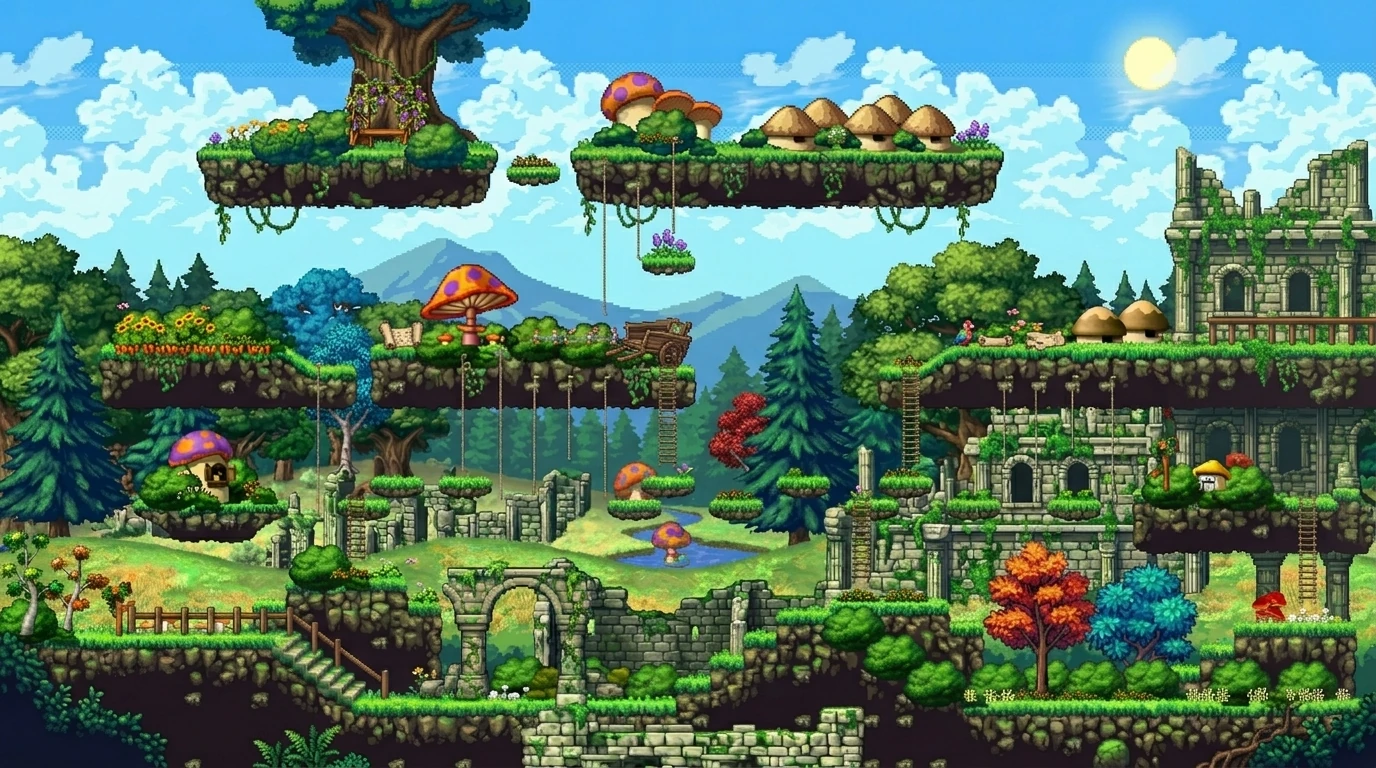
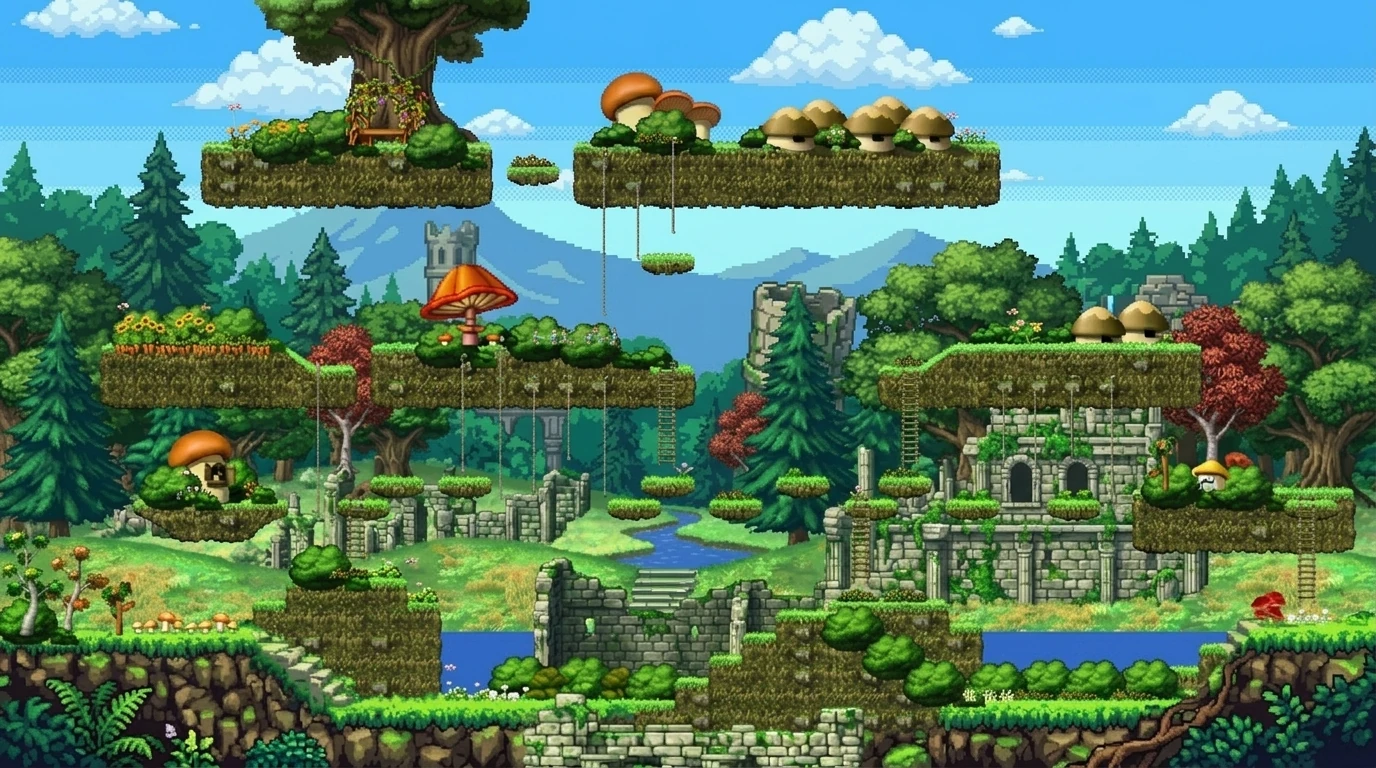
New forest map layout with re-measured platforms

diff --git a/src/battle.js b/src/battle.js
@@ -13,19 +13,19 @@ const MAP = img('assets/scenes/forest.webp');
 // แท่นวัดจากภาพ (พิกัดในภาพ x1, x2, y ของขอบหญ้า) floor = พื้นที่กระโดดลงทะลุไม่ได้
 const P = (x1, x2, y, floor = false) => ({ x1: x1 * MAP_SCALE, x2: x2 * MAP_SCALE, y: y * MAP_SCALE, ground: floor });
 const PLATFORMS = [
-  // พื้นล่าง
-  P(0, 215, 473, true), P(215, 717, 523, true), P(717, 1024, 519, true),
-  // เนินและหินชั้นล่าง
-  P(212, 328, 450), P(579, 701, 452), P(530, 602, 496), P(919, 1006, 468),
-  // บ้านเห็ดม่วง และเกาะขวา
-  P(100, 212, 372), P(845, 1006, 362),
+  // พื้นล่าง: ซ้ายสูง · กลางต่ำ (ริมน้ำ) · ขวาสูง
+  P(0, 205, 476, true), P(205, 905, 521, true), P(905, 1024, 471, true),
+  // เนินหญ้าชั้นล่าง
+  P(215, 325, 440), P(565, 700, 456),
+  // บ้านเห็ดซ้าย และเกาะขวา
+  P(100, 215, 376), P(847, 1007, 376),
   // แท่นลอยเล็ก
-  P(276, 315, 357), P(328, 366, 357), P(453, 491, 375), P(530, 566, 375), P(579, 614, 357),
-  P(655, 694, 357), P(707, 742, 375), P(781, 819, 375),
+  P(275, 315, 357), P(325, 365, 357), P(577, 617, 357), P(654, 692, 357),
+  P(250, 290, 376), P(452, 492, 376), P(527, 567, 376), P(629, 667, 376), P(704, 744, 376), P(779, 819, 376),
   // ชั้นกลาง
-  P(75, 215, 257), P(225, 505, 264), P(645, 895, 258),
+  P(75, 265, 257), P(275, 517, 262), P(655, 893, 258),
   // แท่นห้อยเล็ก และชั้นบนสุด
-  P(478, 512, 187), P(148, 352, 110), P(378, 414, 120), P(425, 745, 110),
+  P(476, 517, 193), P(150, 365, 108), P(380, 415, 120), P(428, 742, 108),
 ];
 const GROUND = PLATFORMS[0].y;   // พื้นจุดเริ่ม (ซ้ายล่าง)
 const GRAV = 1900, JUMP_V = -1000, WALK = 210;   // กระโดดได้สูงราว 260 หน่วย

diff --git a/sw.js b/sw.js
@@ -1,5 +1,5 @@
 // เพิ่มไฟล์ใหม่ในเกมเมื่อไหร่ ให้ใส่ใน SHELL และเปลี่ยนเลขเวอร์ชัน
-const CACHE = 'cat-assemble-v22';
+const CACHE = 'cat-assemble-v23';
 const SHELL = [
   './',
   'index.html',
